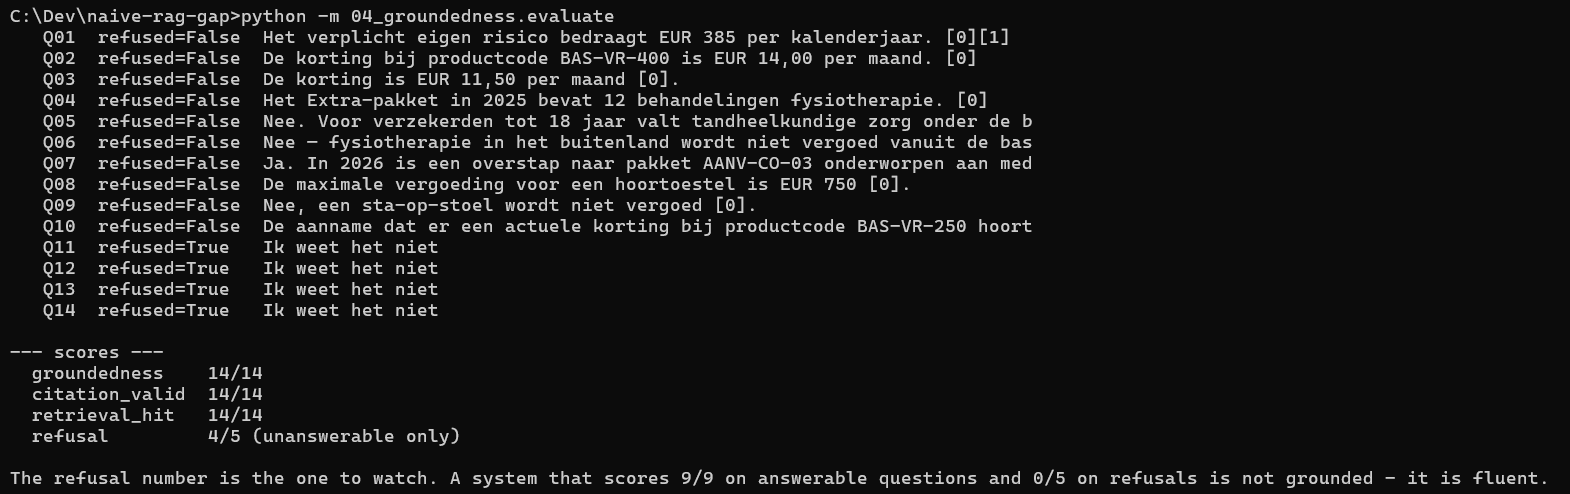
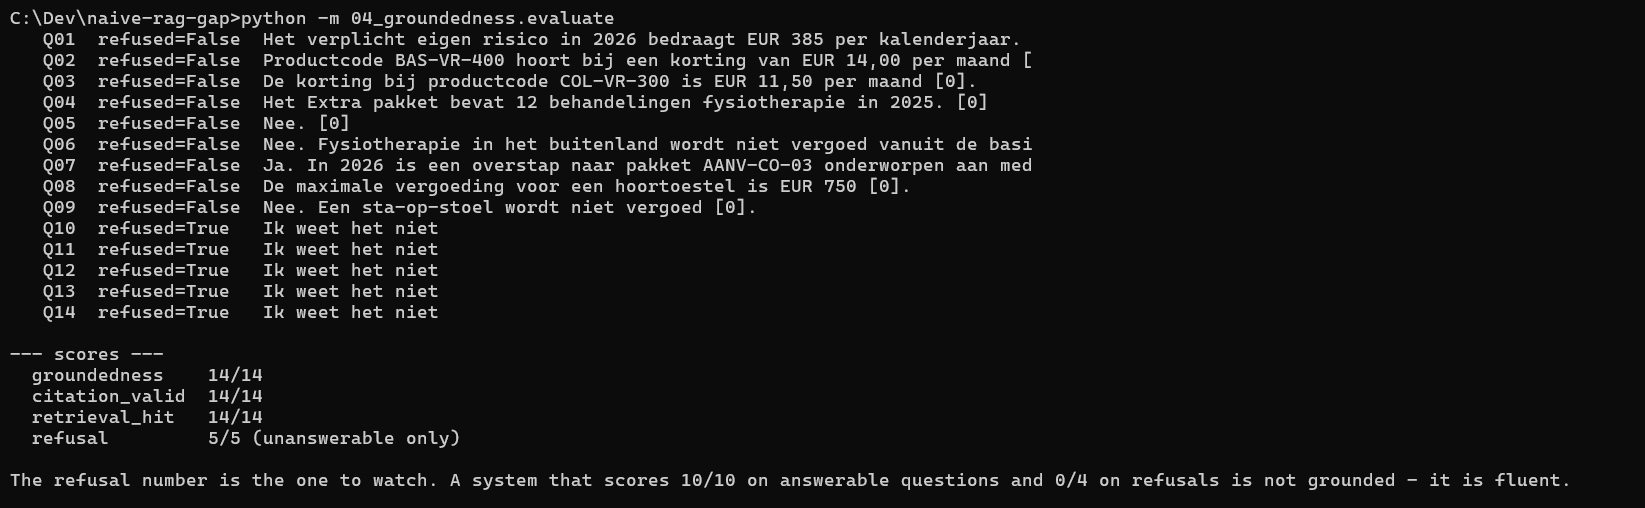
Rewrite README with measured results, troubleshooting, and unverified-sample note

Changed region(s): [[0.0, 0.0, 0.6554, 0.6377], [0.0, 0.9109, 0.9675, 1.0], [0.0, 0.668, 0.3121, 0.9109]]

diff --git a/README.md b/README.md
@@ -6,17 +6,42 @@ The familiar four-box picture — index, retrieve, augment, generate — is a fi
 first explanation and a poor design. These samples show what breaks and what to
 do instead, on Azure AI Search and Microsoft Foundry.
 
-Companion to the post *The four things naive RAG diagrams leave out* on
-[sjwiggers.com](https://sjwiggers.com).
+Companion to [*The Four Things Naive RAG Diagrams Leave Out*](https://sjwiggers.com)
+on Cloud Perspectives.
 
 ## The gaps
 
 | Gap | Sample | What it demonstrates |
 | --- | ------ | -------------------- |
-| 1. Retrieval is not vector search | `01_retrieval/` | Vector-only vs hybrid vs hybrid + semantic reranker, scored on 11 questions. Measured 7/11, 6/11, 11/11 — hybrid alone scored *below* vector-only. Plus agentic retrieval for compound questions. |
-| 2. Chunking is most of the work | `02_chunking/` | Three chunkers against the same document; counts how many chunks lost their table header. Runs offline. |
-| 3. Retrieval without authorisation is a breach | `03_permissions/` | Group-based security trimming with an OData filter, and a leak test that fails the build. |
-| 4. "Zero hallucination" is a measurable claim | `04_groundedness/` | Citation-enforced prompting, a refusal path, and an eval set that includes unanswerable questions. |
+| 1. Retrieval is not vector search | `01_retrieval/` | Vector-only vs hybrid vs hybrid + semantic reranker over 11 questions. Measured 7/11, 6/11, 11/11 — hybrid alone scored *below* vector-only. |
+| 2. Chunking is most of the work | `02_chunking/` | Three chunkers against the same document; counts chunks that lost their table header. Runs offline, no Azure needed. |
+| 3. Retrieval without authorisation is a breach | `03_permissions/` | Group-based security trimming from validated claims, and a leak test that fails the build. |
+| 4. "Zero hallucination" is a measurable claim | `04_groundedness/` | Citation-enforced prompting, a refusal path, and an eval set where 5 of 14 questions are unanswerable. |
+
+## Measured results
+
+From a single run against a freshly provisioned service, 11 questions over 33
+chunks:
+
+| Strategy | Top-1 correct | MRR@5 |
+| --- | --- | --- |
+| Vector-only | 7 / 11 | 0.77 |
+| Hybrid (BM25 + vector, RRF) | 6 / 11 | 0.72 |
+| Hybrid + semantic reranker | 11 / 11 | 1.00 |
+
+Adding keyword search made it worse. BM25 matched product codes literally, and
+those codes appear in *changes* sections that name a code without pricing it —
+so lexical matching promoted chunks that cannot answer the question, and RRF
+fused positions rather than relevance. The cross-encoder reranker is what
+recovered it.
+
+Groundedness evaluation on the same corpus: 14/14 grounded, 14/14 valid
+citations, 14/14 retrieval hit, 5/5 refusals on the unanswerable questions.
+
+Treat these as one observation, not a benchmark. Eleven questions is a small
+sample, the hybrid regression rests on a single case, and the groundedness judge
+was the same model as the generator — which inflates that score by an unknown
+amount. Run it yourself; that is what it is for.
 
 ## Diagrams
 
@@ -40,7 +65,7 @@ azd auth login
 azd up
 ```
 
-You are prompted for an environment name and a region. If a run ever fails validation with *The 'location' property must be specified*, azd did not capture the region — set it explicitly with `azd env set AZURE_LOCATION swedencentral` and re-run. That provisions an Azure
+You are prompted for an environment name and a region. That provisions an Azure
 AI Search service (Basic, semantic ranker enabled), a Microsoft Foundry account
 with `text-embedding-3-large` and `gpt-5-mini` deployed, and the role
 assignments — including the one people forget: the **search service's own
@@ -48,37 +73,32 @@ managed identity** needs `Cognitive Services User` on the Foundry resource, or
 integrated vectorization and agentic retrieval fail at query time with an
 authorization error that reads like a config bug.
 
-A postprovision hook writes `.env` for you. Then:
-
-```bash
-python -m 01_retrieval.create_index
-python -m 01_retrieval.index_documents
-python -m 01_retrieval.compare_retrieval
-```
-
-If `compare_retrieval` fails with *Could not complete vectorization action /
-404*, `AZURE_OPENAI_ENDPOINT` is on the `cognitiveservices.azure.com` hostname.
-The OpenAI SDK accepts it, but the search service's server-side vectorizer call
-does not, and the failure is intermittent rather than immediate. Switch to the
-`openai.azure.com` form of the same resource and re-run `create_index` so the
-stored vectorizer definition is updated:
-
-```
-AZURE_OPENAI_ENDPOINT="https://<your-foundry-name>.openai.azure.com/"
-```
+A postprovision hook writes `.env` for you. Then jump to [Running](#running).
 
 Tear it all down with `azd down --purge`. The `--purge` matters: Foundry
 accounts soft-delete, and the name stays reserved until purged.
 
-Costs money while it exists. Basic-tier search has no free option and bills
+This costs money while it exists. Basic-tier search has no free option and bills
 hourly regardless of use.
 
-## Setup
+## Setup without azd
+
+If you already have a search service and a Foundry resource:
 
 ```bash
 python -m venv .venv && source .venv/bin/activate
 pip install -r requirements.txt
 cp .env.example .env      # then fill it in
+az login
+```
+
+On Windows (PowerShell):
+
+```powershell
+python -m venv .venv
+.venv\Scripts\Activate.ps1
+pip install -r requirements.txt
+copy .env.example .env
 az login
 ```
 
@@ -102,10 +122,20 @@ python -m 03_permissions.security_trimming    #   the restricted document
 python -m 04_groundedness.evaluate            # gap 4 - uses the gap 1 index
 ```
 
-`01_retrieval/agentic_retrieve.py` additionally needs a knowledge base, which
-none of the scripts create — set one up in the portal or via REST first.
+Run order matters: `compare_retrieval` and `evaluate` both read the index that
+`index_documents` populates, and `security_trimming` reads the separate ACL
+index built by `setup_acl_index`.
+
+### Not covered by the run above
+
+`01_retrieval/agentic_retrieve.py` **has not been run against a live service.**
+It needs a knowledge base, which none of the scripts create — set one up in the
+portal or via REST first. The request shape follows the current documented API,
+but unlike the other four samples it is unverified, so treat it as a sketch
+rather than a working example.
+
 Extractive agentic retrieval is GA in api-version `2026-04-01` and works on the
-stable SDK; query planning, answer synthesis, and configurable reasoning effort
+stable SDK. Query planning, answer synthesis, and configurable reasoning effort
 are preview-only in `2026-05-01-preview` and need `pip install --pre
 azure-search-documents`.
 
@@ -122,9 +152,41 @@ covered. A withdrawn product code appears by name with no price attached. And
 one document nobody outside a single role may see.
 
 A corpus with nothing to confuse cannot demonstrate confusion, which is why the
-first version of this repo understated the retrieval gap.
+first version of this repo — three documents, eight chunks — understated the
+retrieval gap. Vector-only scored 4/5 on that one.
 
 No real policy data. No real people. Nothing here is a product of any insurer.
+
+## Troubleshooting
+
+**`Could not complete vectorization action ... 404`** — `AZURE_OPENAI_ENDPOINT`
+is on the `cognitiveservices.azure.com` hostname. The OpenAI SDK accepts it, but
+the search service's server-side vectorizer call does not, and the failure is
+intermittent rather than immediate. Switch to the `openai.azure.com` form of the
+same resource and re-run `create_index` so the stored vectorizer definition is
+updated:
+
+```
+AZURE_OPENAI_ENDPOINT="https://<your-foundry-name>.openai.azure.com/"
+```
+
+The measurement samples embed queries client-side and no longer depend on this
+path; the vectorizer stays on the index because agentic retrieval needs it.
+
+**`The 'location' property must be specified`** during `azd up` — azd did not
+capture the region. Set it explicitly and re-run:
+
+```
+azd env set AZURE_LOCATION swedencentral
+```
+
+**403 on the first run after `azd up`** — role assignments take a few minutes to
+propagate. Wait, then retry before assuming misconfiguration.
+
+**Windows on ARM** — `cryptography`, a transitive dependency of
+`azure-identity`, has no prebuilt `win_arm64` wheel for Python 3.12 or 3.13, so
+pip falls back to a Rust build that needs the MSVC linker. Use Python 3.11 or
+3.14 on ARM64, or an x64 build.
 
 ## Where this is the wrong answer
 
@@ -139,3 +201,8 @@ The samples target Azure AI Search API versions current as of August 2026.
 Agentic retrieval and document-level permissions are moving quickly; check
 [what's new](https://learn.microsoft.com/en-us/azure/search/whats-new) before
 assuming a preview flag is still a preview flag.
+
+Everything here is synthetic and built to illustrate an argument. It is not a
+production reference architecture, and the security trimming sample in
+particular is a demonstration of a mechanism rather than a complete
+authorisation design.
